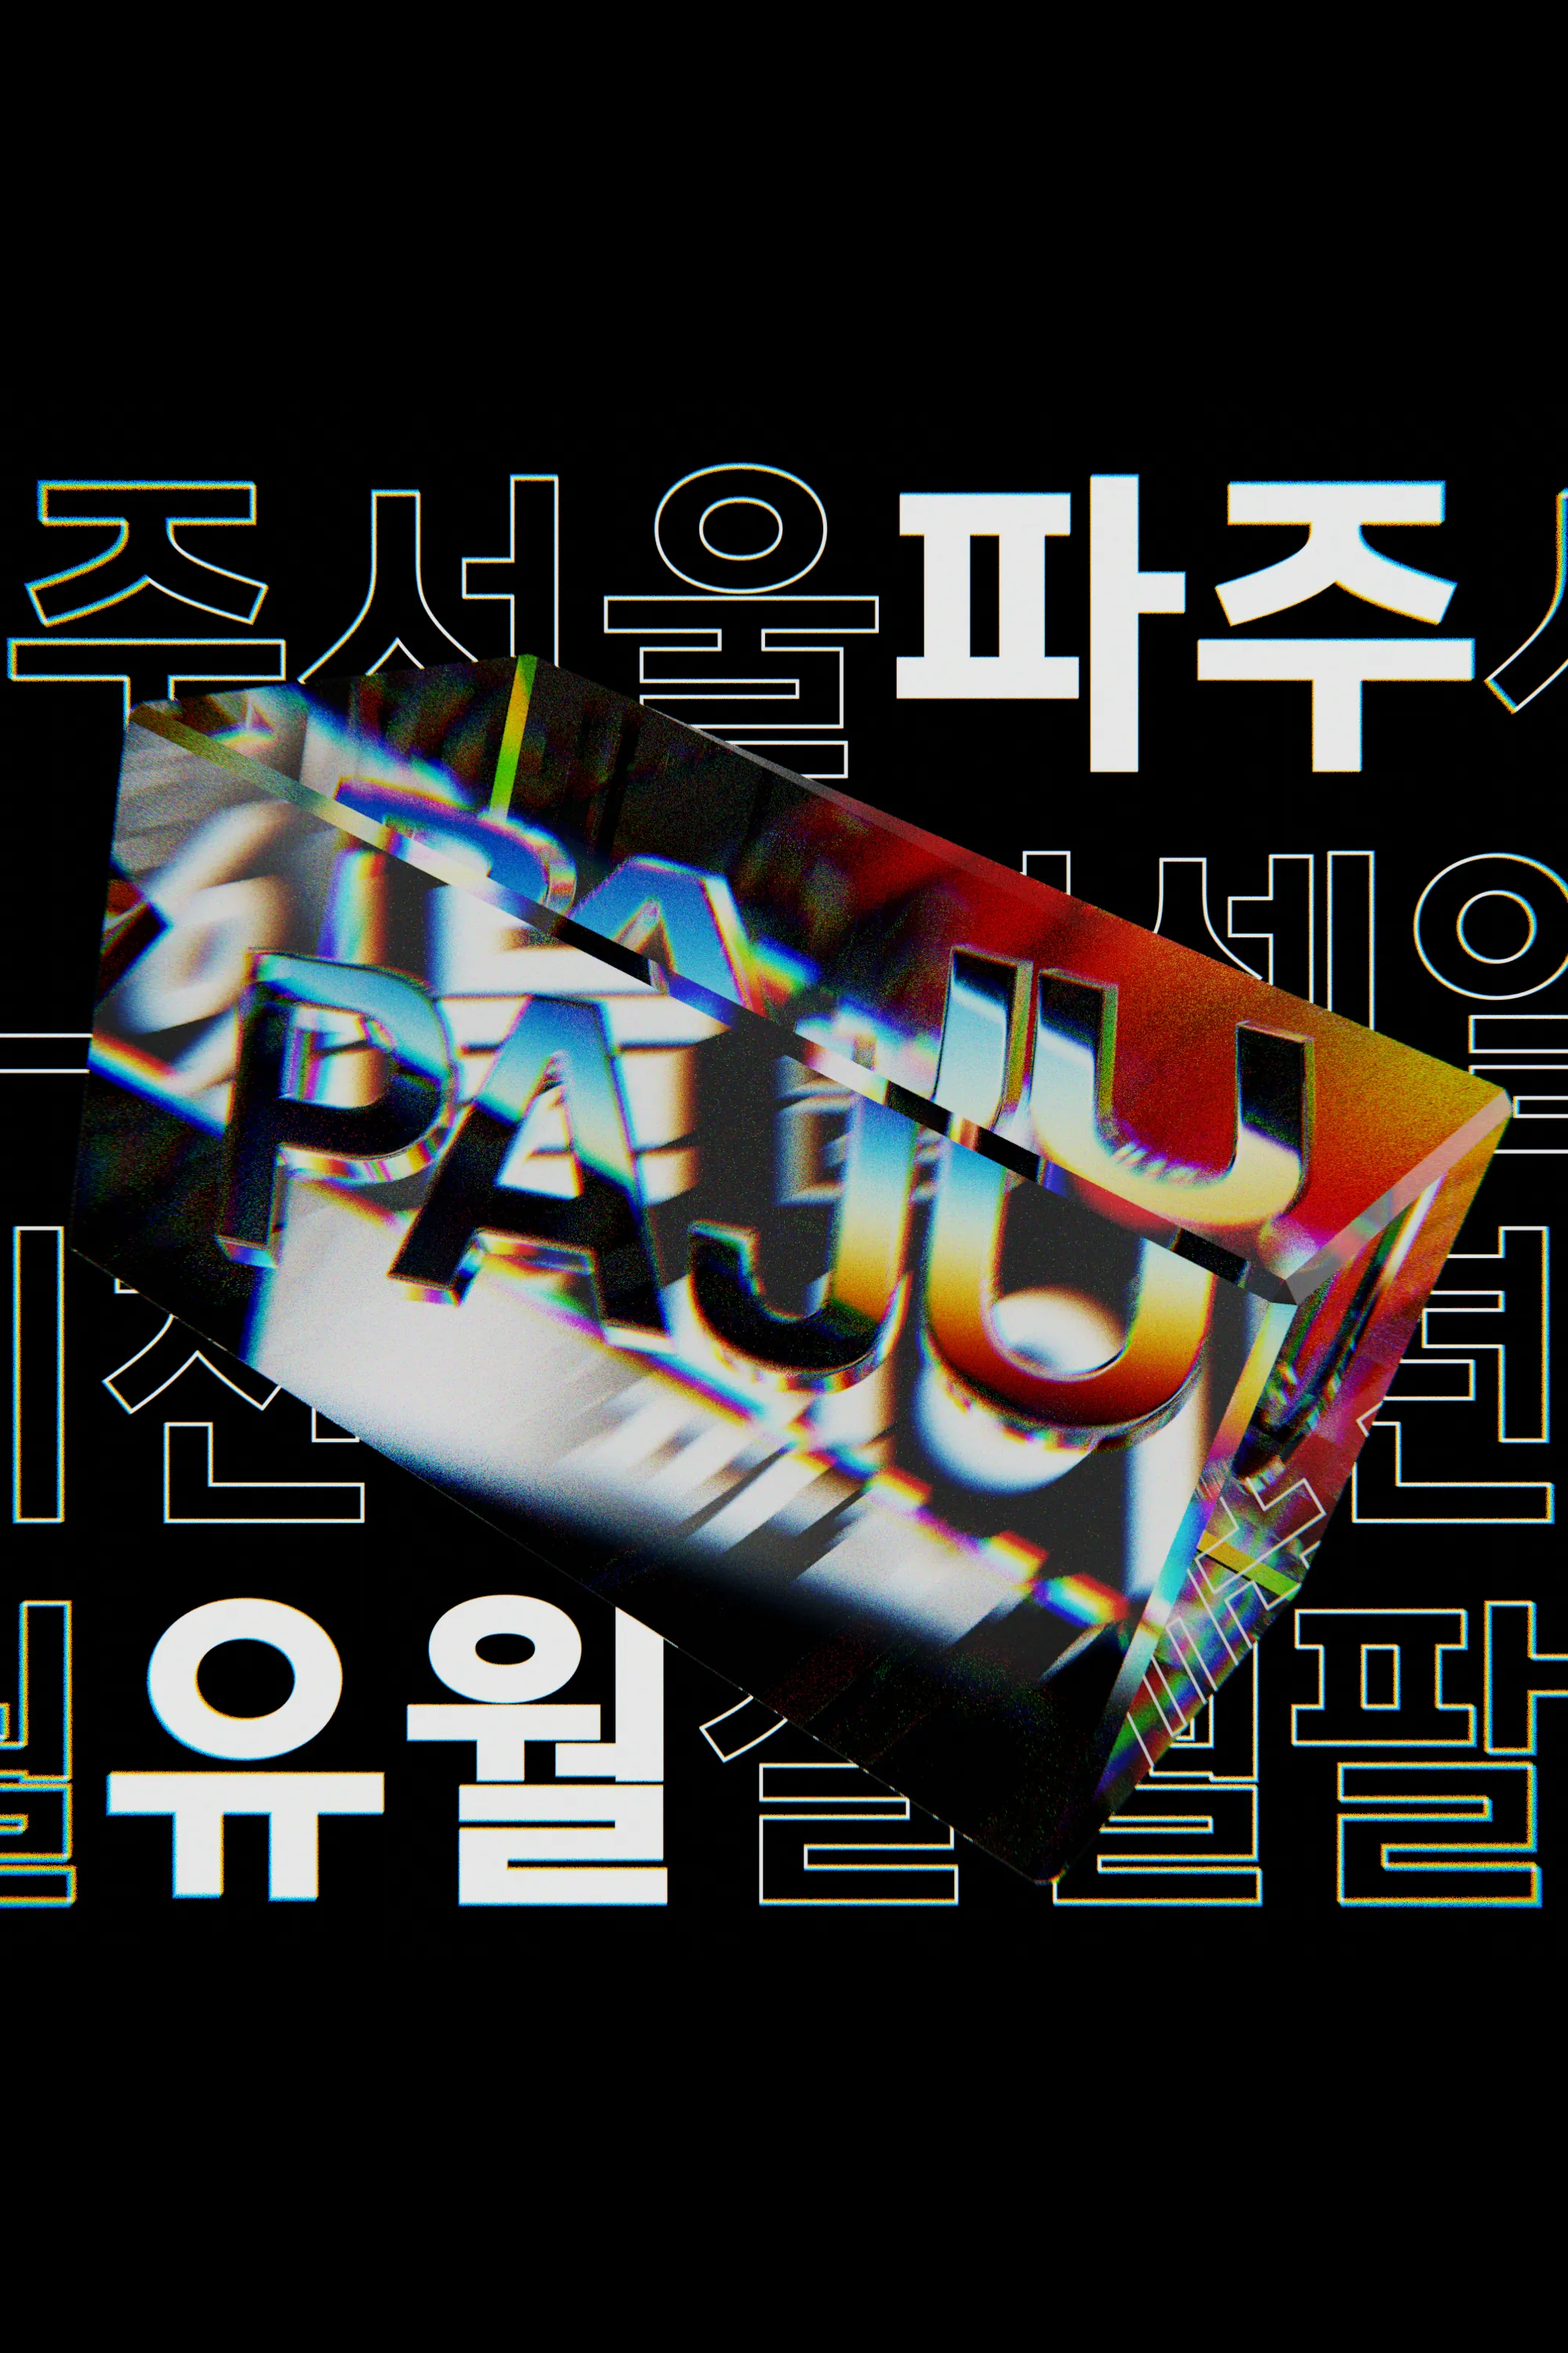
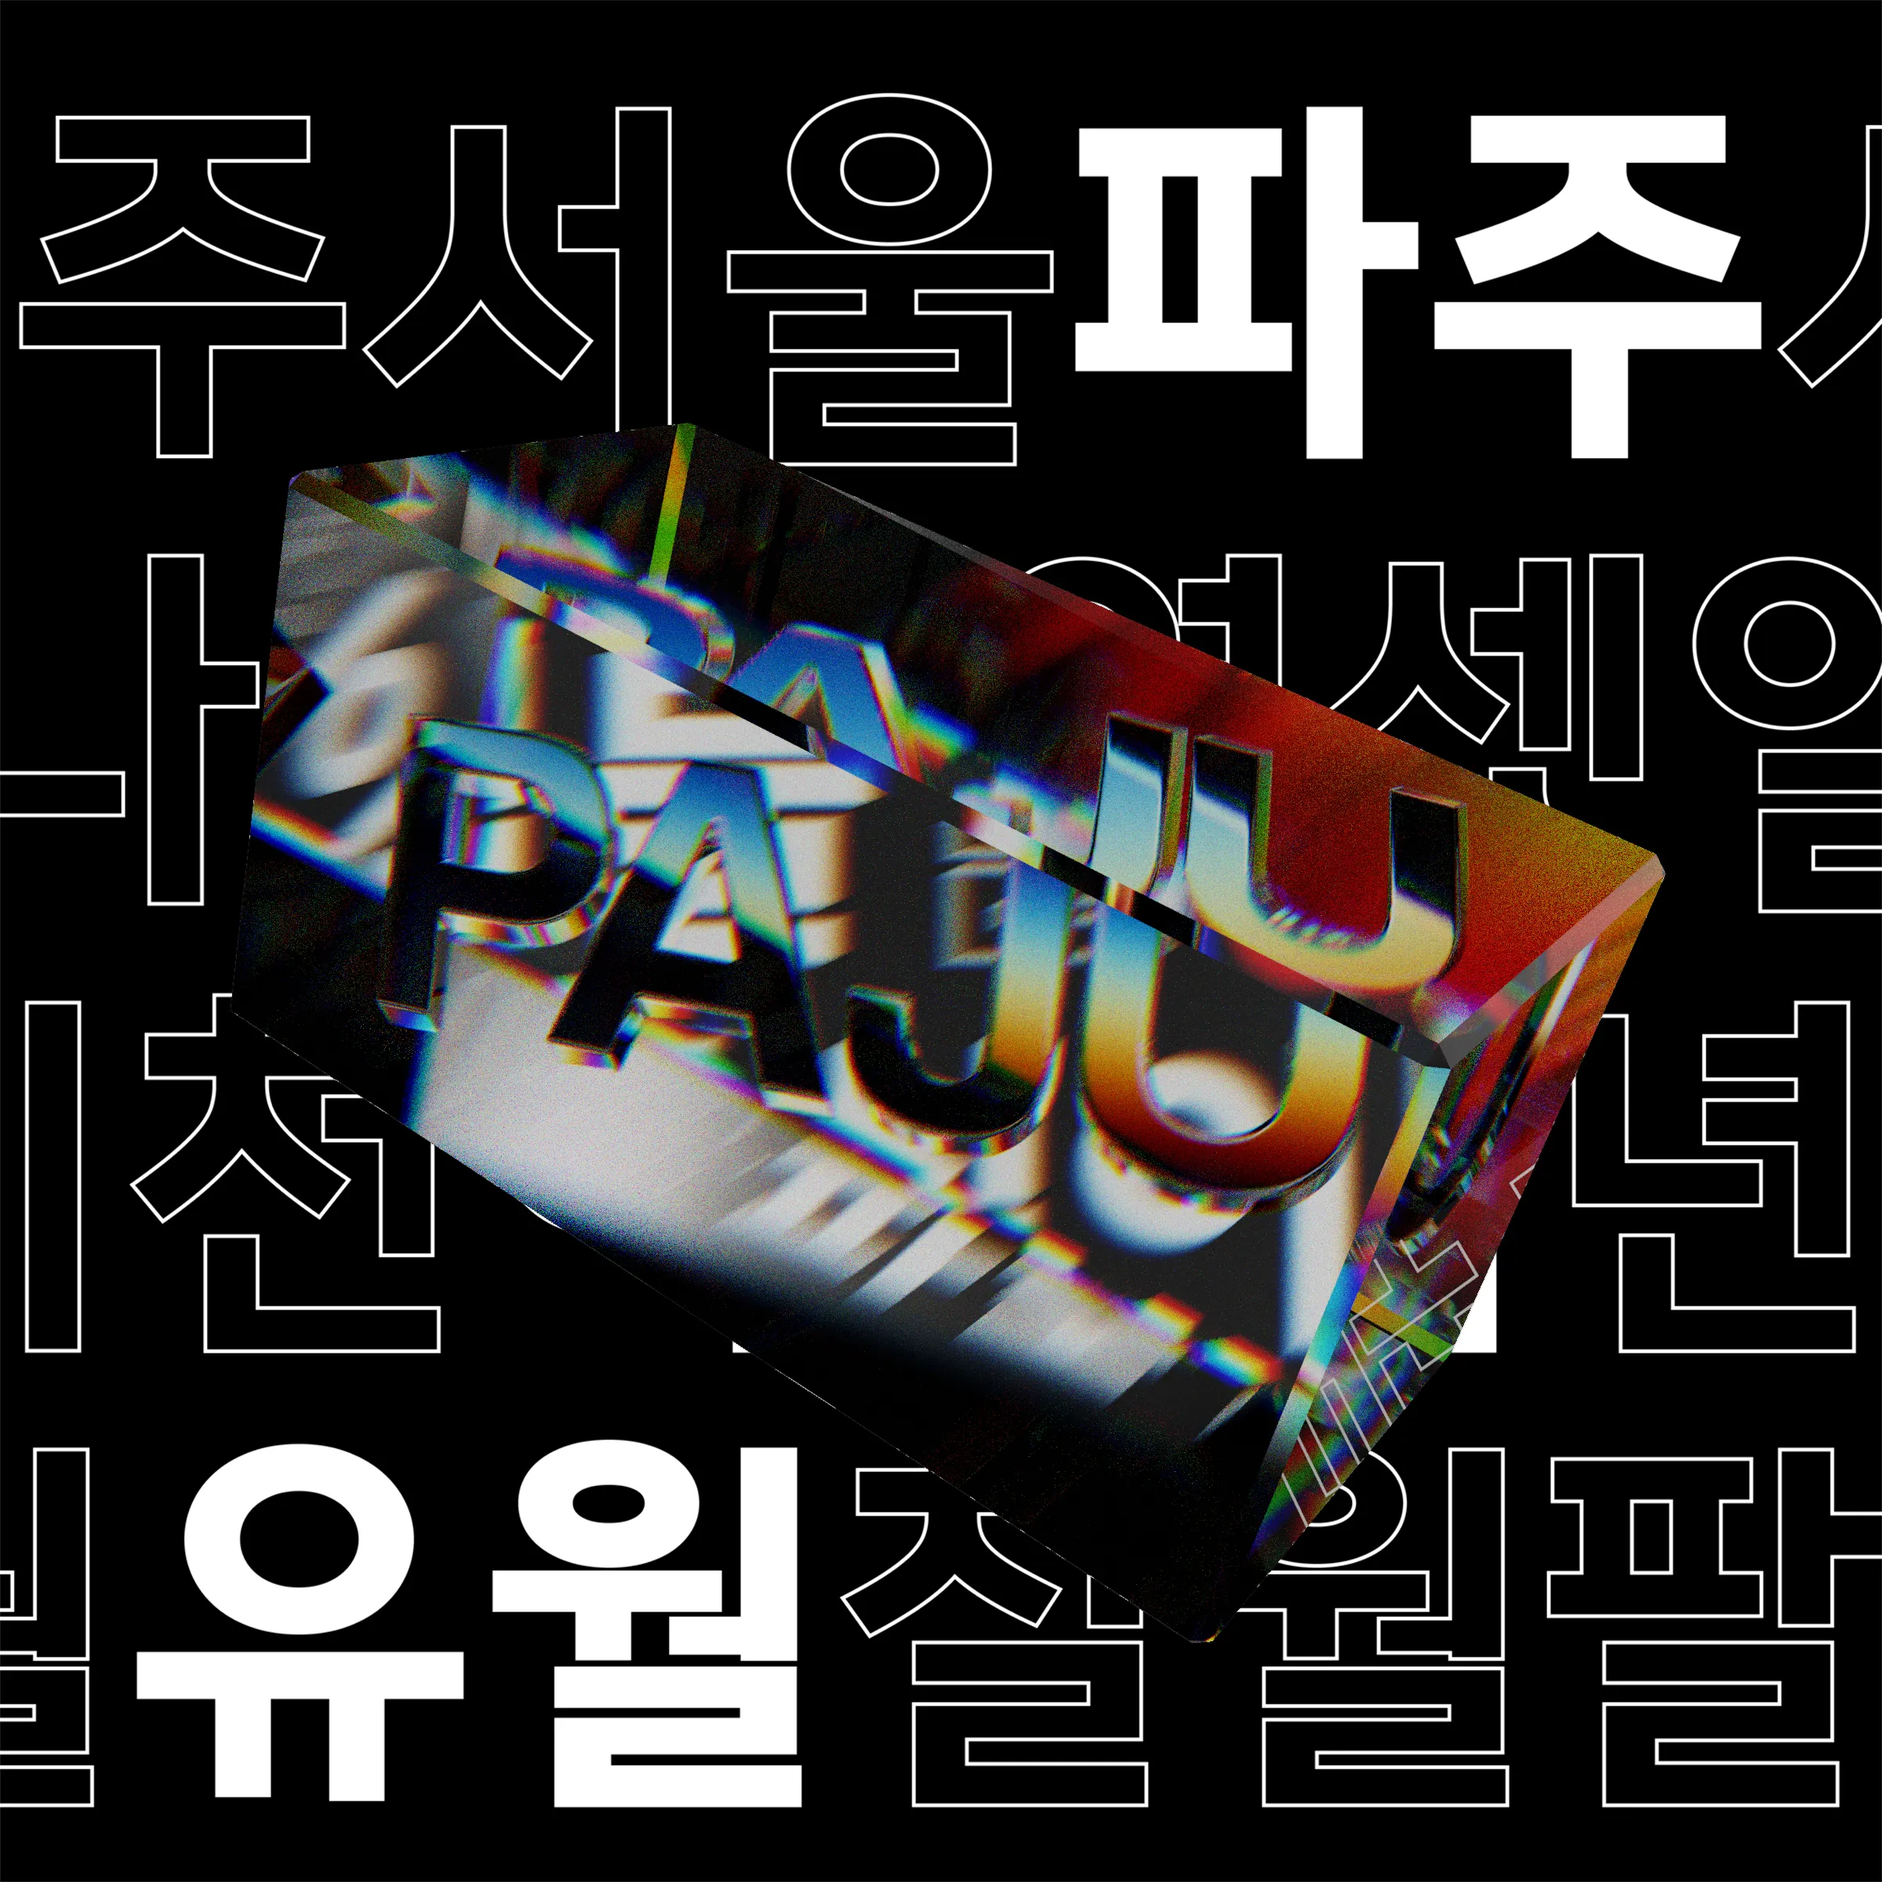
Upload PAJU12 post

diff --git a/_posts/interactive/2023-02-13-metro.md b/_posts/interactive/2023-02-13-metro.md
@@ -4,7 +4,7 @@ categories: interactive
 title: "Metro"
 title_repeat: 15
 subtitle: "3D Interactive Art"
-comment: "Interactive Art Exhibition Piece"
+comment: "Interactive Art Exhibition Installation"
 date: 2023-02-13
 abstract: >
   An interactive 3D scene of a train platform and an animated metro train, rendered in real-time in the Unity game engine. The visual theme was heavily inspired by the 1995 movie "Whisper of the Heart", replicating the classic Japanese hand-drawn animation style. Selective, high contrast cel shading, edge outlines, and strong bloom were used as primary techniques. An animated train would arrive and depart upon user input or movement detection via an Xbox Kinect sensor. Part of an in-person interactive art exhibition in Gimpo, South Korea, in 2023. Made with Unity for (main engine), Blender 3D (modelling), C# (scripting), and Xbox Kinect (person detection).

diff --git a/_posts/interactive/2022-09-12-sairi.md b/_posts/interactive/2022-09-12-sairi.md
@@ -4,7 +4,7 @@ categories: interactive
 title: "Sairi"
 title_repeat: 15
 subtitle: "2D & 3D Hybrid Game UI Demo"
-comment: "Visual Effects Demo"
+comment: "Real-time Visual Effects Demo"
 date: 2022-09-12
 abstract: >
  Born as an attempt to blur the lines between visually expressive but static posters and interactive game UI. Demonstrates an interface with a strong focus on stylised visual aesthetics while maintaining functionality. Also a compilation of various real-time 2D and 3D rendering techniques, including cel shading with outlines, character animation transitions, depth-based live shader replacement, and procedurally generated Bezier splines. Most visual effects were implemented in Unity's URP Shadergraph. Made with Unity (main engine), VRoid Studio (character modelling), Blender 3D (model optimisation), C# (scripting).

diff --git a/_posts/extras/2022-05-31-paju12.md b/_posts/extras/2022-05-31-paju12.md
@@ -1,0 +1,10 @@
+---
+layout: gallery
+categories: extra
+title: "Custom Music Playlist Cover"
+title_repeat: 4
+comment: "Blender 3D + Adobe Photoshop"
+date: 2022-05-31
+thumbnail: /assets/img/paju12/1.webp
+image_dir: /assets/img/paju12/
+---
